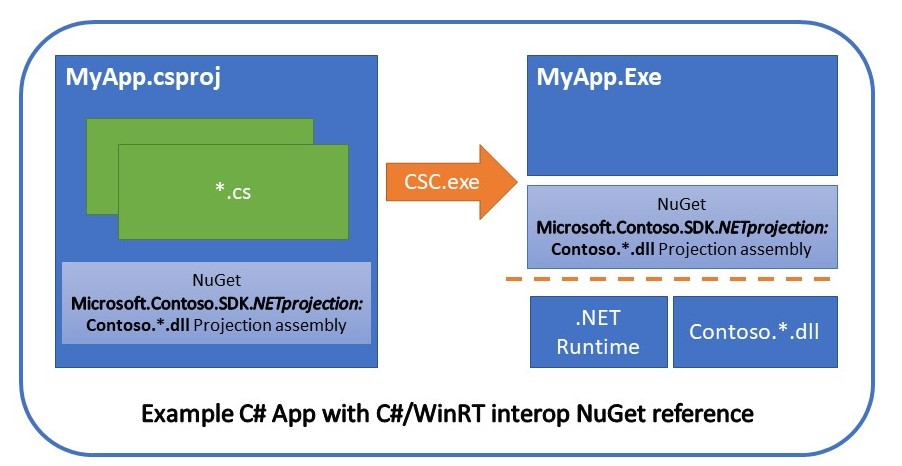
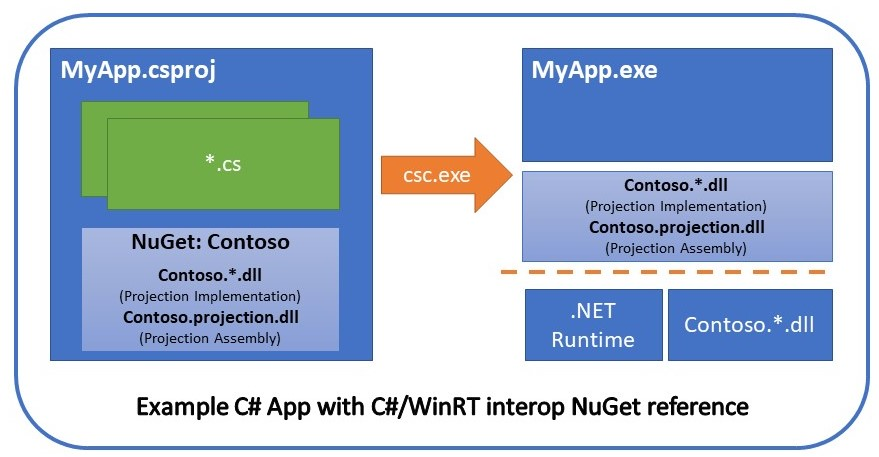
Revised diagrams, headings

Changed region(s): [[0.0, 0.0306, 1.0, 1.0], [0.1536, 0.8578, 0.8601, 0.919]]

diff --git a/README.md b/README.md
@@ -4,13 +4,22 @@
 
 C#/WinRT provides Windows Runtime (WinRT) projection support for the C# language. A "projection" is an adapter that enables programming the WinRT APIs in a natural and familiar way for the target language. The C#/WinRT projection hides the details of interop between C# and WinRT interfaces, and provides mappings of many WinRT types to appropriate .NET equivalents, such as strings, URIs, common value types, and generic collections.  
 
-WinRT APIs are defined in `*.winmd` format, and C#/WinRT includes tooling that generates .NET Standard 2.0 C# code that can be compiled into interop assemblies, similar to how [C++/WinRT](https://github.com/Microsoft/cppwinrt) generates headers for the C++ language projection. This means that neither the C# compiler nor the .NET Runtime require built-in knowledge of WinRT any longer.
+WinRT APIs are defined in `*.winmd` format, and C#/WinRT includes tooling that generates C# code that can be compiled into interop assemblies, similar to how [C++/WinRT](https://github.com/Microsoft/cppwinrt) generates headers for the C++ language projection. This means that neither the C# compiler nor the .NET Runtime require built-in knowledge of WinRT any longer.
 
 ## C#/WinRT Architecture
+
+### Component Authors
+
+Component Authors need to build a C#/WinRT projection for .NET5+ targets.
 
 <img alt="Creating projection"
     src="Diagram_CreateProjection.jpg"
     width="70%" height="50%">
+
+### Application Developers
+
+Consuming .NET5+ apps references your NuGet package, which references the projection assembly instead of a winmd.
+
 <img alt = "Adding projection"
     src="Diagram_AddProjection.jpg"
     width="70%" height="50%">
